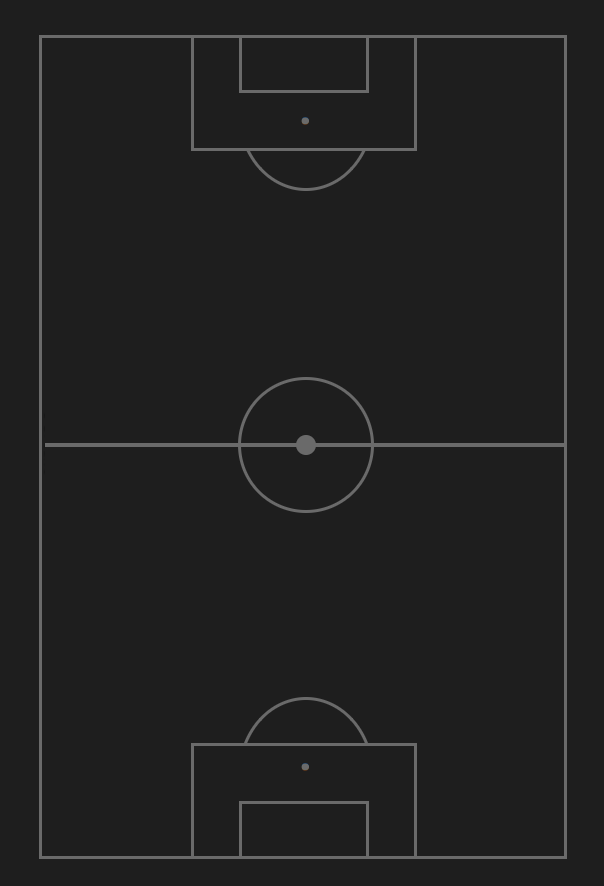
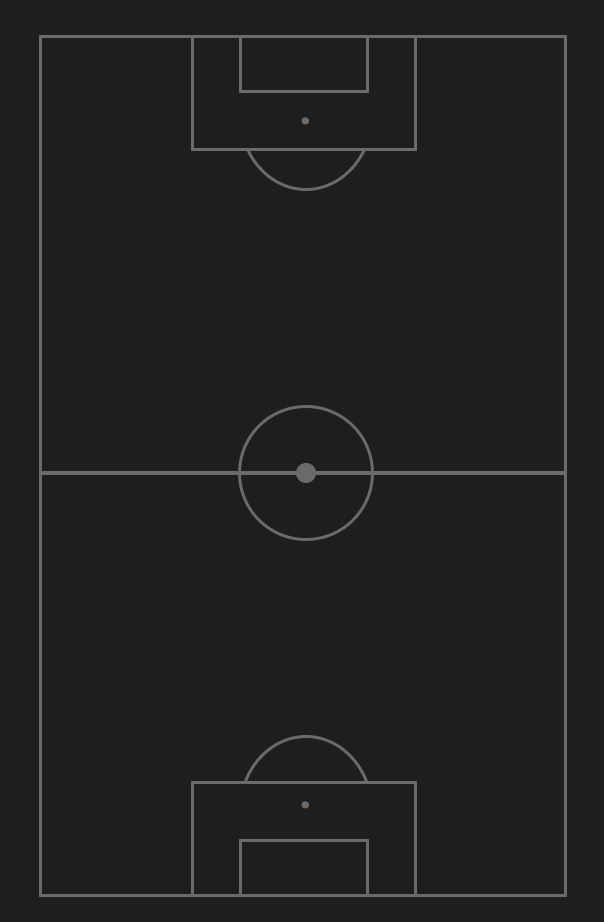
v5 small

diff --git a/src/app/pitch/pitch.component.scss b/src/app/pitch/pitch.component.scss
@@ -295,9 +295,9 @@
     .lineup {
         background-image: url(/../assets/pitchblack4.png);
         width: calc(70% - 40px);
-        height: 310px;
-        padding-bottom: 30px;
-        padding-top: 60px;
+        height: 350px;
+        padding-bottom: 0px;
+        padding-top: 100px;
 
         .center {
             padding-left: 40px;
